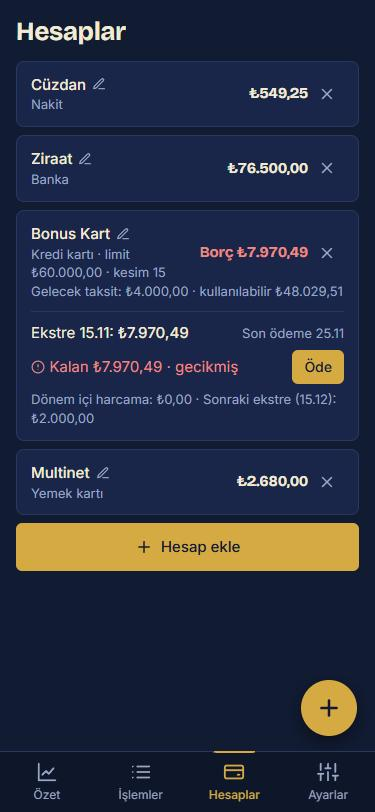
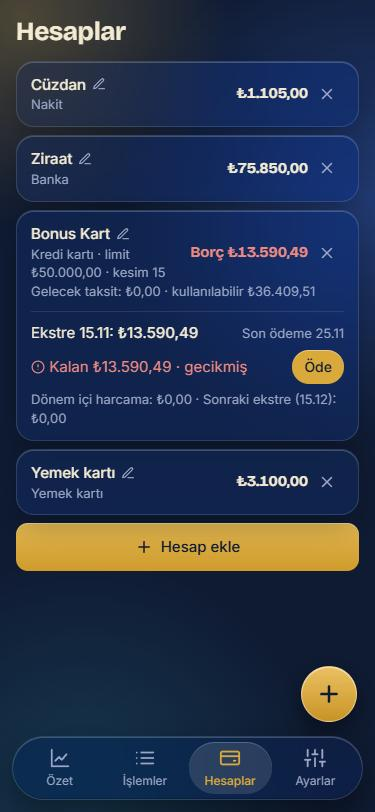
README ekran görüntüleri cam tasarımla yenilendi, masaüstü görüntüsü eklendi

diff --git a/README.md b/README.md
@@ -10,6 +10,10 @@ yalnız senin cihazında kalır.
 |---|---|---|
 | ![Özet: varlık, kart borcu, tekrar eden giderler, ay sonucu](docs/ozet.jpg) | ![İşlemler: tekrar eden giderler ve aylık işlem listesi](docs/islemler.jpg) | ![Hesaplar: nakit, banka, kredi kartı ekstresi, yemek kartı](docs/hesaplar.jpg) |
 
+Bilgisayarda geniş ekrana yayılır: solda menü, içerik iki sütun.
+
+![Masaüstü: sol kenar çubuğu, varlık ve ay sonucu, ödemeler ve kategoriler](docs/masaustu.jpg)
+
 *Ekran görüntülerindeki tüm tutarlar örnektir.*
 
 ## Neler yapar
